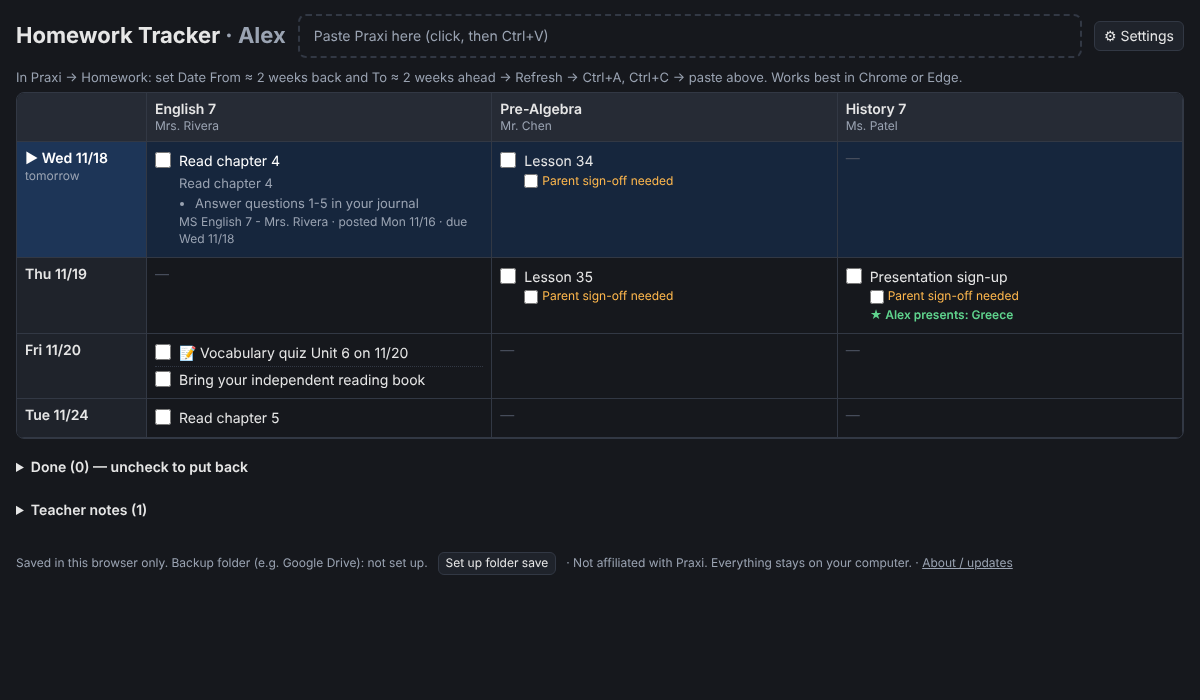
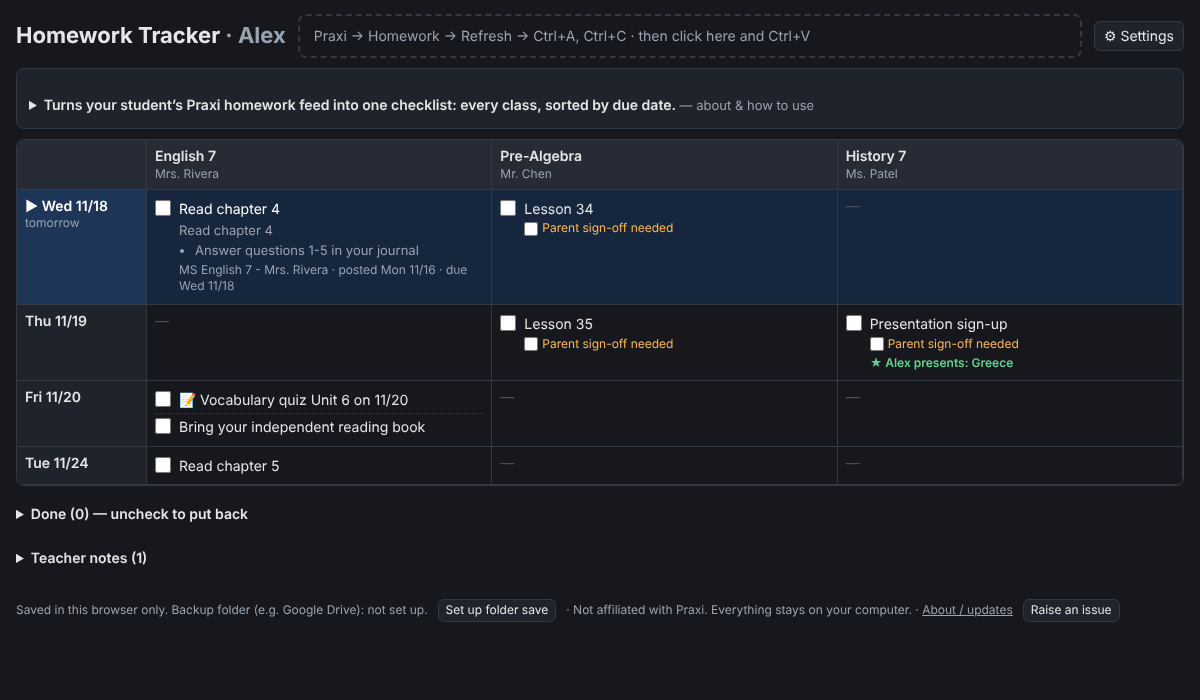
Add intro, paste-box steps, Raise an issue, 8-class layout
- Collapsible about / how-to-use intro (starts collapsed) replaces the
  one-line hint; copy/paste steps now live in the paste box
- "Raise an issue" dialog with reporting guidance; opens a prefilled
  GitHub issue (problem or feature) with browser/OS filled in
- Columns narrow as classes are added (8 fit at 1280px); sticky date
  column when scrolling sideways
- Class headers accept more teacher titles (Sra., Mme, Coach, Prof., ...);
  previously such classes merged into the preceding one
- README and screenshot updated; test for teacher titles

Claude-Session: https://claude.ai/code/session_01DghYg2563FTEQiGXXq2vg7

diff --git a/index.html b/index.html
@@ -17,7 +17,18 @@
   button:hover { border-color:var(--due); }
   #paste { border:2px dashed var(--line); border-radius:8px; padding:10px 14px; color:var(--muted); outline:none; flex:1; min-width:280px; }
   #paste:focus { border-color:var(--due); }
-  .howto { color:var(--muted); font-size:13px; margin:4px 0 0; }
+  .about { margin:2px 0 10px; border:1px solid var(--line); border-radius:8px; background:var(--panel); }
+  .about > summary { cursor:pointer; padding:8px 12px; font-weight:600; color:var(--text); }
+  .about > summary::after { content:' — about & how to use'; font-weight:400; color:var(--muted); font-size:13px; }
+  .about[open] > summary::after { content:''; }
+  .aboutbody { display:grid; grid-template-columns:repeat(auto-fit, minmax(300px, 1fr)); gap:4px 22px; padding:0 14px 12px; color:var(--muted); font-size:13px; line-height:1.5; }
+  .aboutbody section:last-child { grid-column:1 / -1; }   /* "How to use" runs full width under the three short columns */
+  .aboutbody h3 { color:var(--text); font-size:13px; margin:6px 0 4px; text-transform:uppercase; letter-spacing:.04em; }
+  .aboutbody p, .aboutbody ul, .aboutbody ol { margin:0 0 6px; }
+  .aboutbody ul, .aboutbody ol { padding-left:18px; }
+  .aboutbody li { margin:2px 0; }
+  .aboutbody b, .aboutbody em { color:var(--text); }
+  .k { display:inline-block; border:1px solid var(--line); border-bottom-width:2px; border-radius:4px; padding:0 5px; font-size:12px; color:var(--text); background:var(--panel2); white-space:nowrap; }
   .msg { margin:6px 0; color:var(--muted); font-size:13px; }
   .msg.err { color:var(--over); }
   #driveBar { background:#3a2f12; border:1px solid var(--chg); border-radius:8px; padding:8px 12px; margin:8px 0; display:flex; gap:10px; align-items:center; }
@@ -31,7 +42,10 @@
   .cell { border-right:1px solid var(--line); border-bottom:1px solid var(--line); padding:6px 8px; min-width:0; }
   .hdr { position:sticky; top:0; background:var(--panel2); font-weight:600; z-index:1; }
   .hdr small { display:block; font-weight:400; color:var(--muted); font-size:12px; }
-  .rowlbl { background:var(--panel); font-weight:600; }
+  .rowlbl { background:var(--panel); font-weight:600; position:sticky; left:0; z-index:1; }   /* dates stay put when scrolling sideways */
+  .hdr.corner { left:0; z-index:2; }
+  .dense .cell { padding:5px 6px; font-size:13px; }
+  .dense .hdr { font-size:13px; }
   .rowlbl small { display:block; font-weight:400; color:var(--muted); font-size:12px; }
   .r-next > .cell { background:#16263d; }
   .r-next > .rowlbl { background:#1d3557; color:#fff; }
@@ -82,7 +96,10 @@
   .chk { display:flex; gap:8px; align-items:center; margin:5px 0; cursor:pointer; }
   .small { font-size:12px; margin:4px 0; }
   .dlgbtns { display:flex; justify-content:flex-end; gap:8px; margin-top:16px; }
-  #sSave { border-color:var(--due); }
+  #sSave, dialog .primary { border-color:var(--due); }
+  #issue { font-size:13px; line-height:1.5; }
+  #issue p, #issue ol { margin:4px 0 8px; } #issue ol { padding-left:18px; } #issue li { margin:3px 0; }
+  #issue .k2 { color:var(--muted); }
 </style>
 </head>
 <body>
@@ -92,7 +109,43 @@
     <div id="paste" contenteditable="true"></div>
     <button id="settingsBtn" title="Settings">⚙ Settings</button>
   </div>
-  <div class="howto" id="howto"></div>
+  <details class="about" id="about">
+    <summary>Turns your student’s Praxi homework feed into one checklist: every class, sorted by due date.</summary>
+    <div class="aboutbody">
+      <section>
+        <h3>Why it exists</h3>
+        <p>Praxi shows homework as a running feed of daily teacher posts. To find out what’s due tomorrow, you have to scroll through two weeks of posts across every class and work out the dates yourself. And once you’ve checked something, there’s nowhere to mark it done. This page does that sorting for you.</p>
+      </section>
+      <section>
+        <h3>What it does</h3>
+        <ul>
+          <li>Lays out every assignment in a grid: classes across the top, due dates down the side, with the next school day highlighted.</li>
+          <li>Lets you check items off and remembers them. Overdue items rise to the top.</li>
+          <li>Flags anything a teacher edited after you checked it, items whose due date moved, and tests and quizzes (📝).</li>
+          <li>Finds your student’s row in presentation sign-ups and adds a parent-signature checkbox where you need one (⚙ Settings).</li>
+        </ul>
+      </section>
+      <section>
+        <h3>What it doesn’t do</h3>
+        <ul>
+          <li>It doesn’t log in to Praxi or fetch anything by itself. It only knows what you paste in.</li>
+          <li>It doesn’t submit work, see grades, or know whether a teacher received something. A checkmark means <em>you</em> marked it done.</li>
+          <li>It doesn’t send reminders or notifications, and it doesn’t share your data. Everything stays in this browser, plus a backup folder if you choose one.</li>
+          <li>It reads teacher posts the way they’re usually written. An oddly formatted post may land under “No due date” or be missed, so still glance at Praxi now and then.</li>
+        </ul>
+      </section>
+      <section>
+        <h3>How to use it</h3>
+        <ol>
+          <li><b>Copying from Praxi:</b> go to Praxi → <b>Homework</b>, set <b>Date From</b> and <b>To</b>, click <b>Refresh</b>, then press <span class="k">A</span> and <span class="k">C</span> to copy the whole page. Click the paste box above and press <span class="k">V</span>.</li>
+          <li><b>First time, load the semester:</b> set Date From to the first day of the semester and To about 2 weeks ahead. Paste. Everything from earlier weeks will show as overdue, so use <b>Mark Done</b> in the Overdue row (dated today) to clear the history in one click.</li>
+          <li><b>Then weekly (or daily during a busy stretch):</b> set Date From to about 2 weeks back and To about 2 weeks ahead, and paste. The overlap is deliberate: it picks up teacher edits and date changes. Pasting the same days twice is harmless, because the newest version of each list wins.</li>
+          <li><b>Each evening:</b> check off what’s done, look at the highlighted row for the next school day, and watch for 📝 tests and ⚠ changes.</li>
+          <li><b>More than one computer?</b> Use <b>Set up folder save</b> at the bottom and pick a Google Drive, iCloud or OneDrive folder on each computer. Use Chrome or Edge on Mac or Windows.</li>
+        </ol>
+      </section>
+    </div>
+  </details>
   <dialog id="settings">
     <form method="dialog" id="settingsForm">
       <h2>Settings</h2>
@@ -109,11 +162,31 @@
       <div class="dlgbtns"><button value="cancel" id="sCancel" formnovalidate>Cancel</button><button value="ok" id="sSave">Save</button></div>
     </form>
   </dialog>
+  <dialog id="issue">
+    <h2>Raise an issue</h2>
+    <p>Found something wrong, or have an idea? Issues go to the project’s GitHub page. You’ll need a free GitHub account to post.</p>
+    <h3>Reporting a problem</h3>
+    <ol>
+      <li><b>Describe what happened</b> and what you expected instead. For example: “Lesson 36 shows under No due date, but Praxi says due 12/2.”</li>
+      <li><b>Take a screenshot</b> of the tracker, and of the Praxi post if the problem is with how it was read (<span class="k2"></span>).</li>
+      <li><b>Hide names first.</b> Praxi pages and sign-up sheets show students’ full names, yours and other kids’. Crop or cover them before attaching.</li>
+      <li>Your browser and computer type are filled in for you.</li>
+    </ol>
+    <h3>Asking for a feature or change</h3>
+    <p>Say what you’d like it to do and why it would help, for example: “Let me hide a class I don’t need to track.”</p>
+    <p class="muted small">Please don’t paste raw Praxi pages into an issue. Issues are public.</p>
+    <div class="dlgbtns">
+      <button id="iClose">Close</button>
+      <button id="iFeature">Request a feature</button>
+      <button id="iBug" class="primary">Report a problem</button>
+    </div>
+  </dialog>
   <div id="pasteMsg" class="msg"></div>
   <div id="driveBar" hidden><span id="driveMsg"></span><button id="driveBtn"></button></div>
   <div id="out"></div>
   <div class="foot"><span id="driveStatus"></span><button id="driveSetup">Set up folder save</button>
-    <span>· Not affiliated with Praxi. Everything stays on your computer. · <a href="https://github.com/ricobert1/praxi-homework-tracker" target="_blank" rel="noopener">About / updates</a></span></div>
+    <span>· Not affiliated with Praxi. Everything stays on your computer. · <a href="https://github.com/ricobert1/praxi-homework-tracker" target="_blank" rel="noopener">About / updates</a></span>
+    <button id="issueBtn">Raise an issue</button></div>
 </main>
 
 <script>
@@ -135,7 +208,8 @@ const PraxiHW = (() => {
   const DOW = ['sunday','monday','tuesday','wednesday','thursday','friday','saturday'];
   const MON = {jan:1,feb:2,mar:3,apr:4,may:5,jun:6,jul:7,aug:8,sep:9,oct:10,nov:11,dec:12};
   const ASSIGNED_RE = /^Assigned:\s*([A-Za-z]{3})[a-z]*\.?\s+(\d{1,2}),\s*(\d{4})$/;
-  const CLASS_RE = /^.{2,60}\s-\s(?:Mrs|Mr|Ms|Miss|Dr)\.?\s.{2,40}$/;
+  // "Class Name - Title Lastname". Titles cover English, Spanish, French and German forms plus Coach/Prof./clergy.
+  const CLASS_RE = /^.{2,60}\s-\s(?:Mrs|Mr|Ms|Mx|Miss|Dr|Prof|Professor|Coach|Señora|Senora|Señorita|Senorita|Señor|Senor|Sra|Srta|Sr|Madame|Mademoiselle|Monsieur|Mme|Mlle|Frau|Herr|Rev|Fr|Father|Sister|Br|Brother)\.?\s.{2,40}$/;
   const DUE_RE = /^(?:homework\s+)?due(?:\s+date)?\b[\s,:]*(?:(sunday|monday|tuesday|wednesday|thursday|friday|saturday)\b)?[\s,]*(\d{1,2})\/(\d{1,2})\s*:?$/i;
   const INLINE_DUE_RE = /\(\s*due\s+(\d{1,2})\/(\d{1,2})\s*\)/i;
   const NOTE_RE = /no assigned homework|check praxi|^map:\s*(none|no map)/i;
@@ -399,7 +473,7 @@ const OLD = { ls: 'bohw.v1', driveAt: 'bohw.driveAt', idb: 'bohw', file: 'bo-hom
 const STALE_DAYS = 3;
 const IS_MAC = /Mac|iPhone|iPad/i.test(navigator.platform || navigator.userAgent || '');
 const KEY = IS_MAC ? '⌘' : 'Ctrl+';
-const PASTE_HINT = `Paste Praxi here (click, then ${KEY}V)`;
+const PASTE_HINT = `Praxi → Homework → Refresh → ${KEY}A, ${KEY}C  ·  then click here and ${KEY}V`;
 let state = { pastes: [], status: {}, settings: {}, updated: null };
 let model = null;
 const openIds = new Set();
@@ -624,9 +698,12 @@ function render() {
   if (undated.length) rows.push({ kind: 'undated', items: undated });
 
   const wrap = el('div', 'gridwrap'), grid = el('div', 'grid');
-  grid.style.gridTemplateColumns = `130px repeat(${classes.length}, minmax(220px, 1fr))`;
-  grid.style.minWidth = (130 + 220 * classes.length) + 'px';   // narrow window: scroll sideways instead of squashing
-  grid.appendChild(el('div', 'cell hdr', ''));
+  // Columns narrow as classes are added (8 classes fit a 1280px laptop); below the minimum it scrolls sideways.
+  const n = classes.length, lblW = n > 6 ? 108 : 130, colMin = n > 6 ? 138 : n > 4 ? 170 : 220;
+  if (n > 6) grid.classList.add('dense');
+  grid.style.gridTemplateColumns = `${lblW}px repeat(${n}, minmax(${colMin}px, 1fr))`;
+  grid.style.minWidth = (lblW + colMin * n) + 'px';
+  grid.appendChild(el('div', 'cell hdr corner', ''));
   classes.forEach(c => { const h = el('div', 'cell hdr', shortCls(c)); h.appendChild(el('small', null, teacher(c))); grid.appendChild(h); });
 
   for (const r of rows) {
@@ -725,16 +802,34 @@ function saveSettings() {
   PraxiHW.configure(state.settings); rebuild(); save(); render(); updateHeader();
 }
 
+/* --- raise an issue: opens GitHub's new-issue page with a starter template --- */
+const REPO = 'https://github.com/ricobert1/praxi-homework-tracker';
+function openIssue(kind) {
+  const ua = navigator.userAgent;
+  const browser = /Edg\//.test(ua) ? 'Edge' : /Chrome\//.test(ua) ? 'Chrome' : /Firefox\//.test(ua) ? 'Firefox' : /Safari\//.test(ua) ? 'Safari' : 'Other';
+  const env = `Browser: ${browser} · Computer: ${IS_MAC ? 'Mac' : /Windows/.test(ua) ? 'Windows' : 'Other'} · Opened from: ${location.protocol === 'file:' ? 'downloaded file' : 'website'}`;
+  const body = kind === 'bug'
+    ? `**What happened?**\n\n\n**What did you expect instead?**\n\n\n**Screenshots** (cover or crop out student names first)\n\n\n---\n${env}`
+    : `**What would you like it to do?**\n\n\n**Why would it help?**\n\n\n---\n${env}`;
+  const title = kind === 'bug' ? 'Problem: ' : 'Idea: ';
+  window.open(`${REPO}/issues/new?title=${encodeURIComponent(title)}&body=${encodeURIComponent(body)}&labels=${kind === 'bug' ? 'bug' : 'enhancement'}`, '_blank', 'noopener');
+  document.getElementById('issue').close();
+}
+
 async function init() {
   load(); rebuild(); render(); updateHeader();
   const paste = document.getElementById('paste');
   paste.textContent = PASTE_HINT;
-  document.getElementById('howto').textContent =
-    `In Praxi → Homework: set Date From ≈ 2 weeks back and To ≈ 2 weeks ahead → Refresh → ${KEY}A, ${KEY}C → paste above. Works best in Chrome or Edge.`;
+  document.querySelectorAll('.k').forEach(k => { k.textContent = KEY + k.textContent; });   // ⌘A on Mac, Ctrl+A on Windows
   paste.addEventListener('paste', handlePaste);
   paste.addEventListener('focus', e => { e.target.textContent = ''; });
   paste.addEventListener('blur', e => { if (!PraxiHW.norm(e.target.textContent)) e.target.textContent = PASTE_HINT; });
   document.getElementById('settingsBtn').onclick = openSettings;
+  document.querySelector('#issue .k2').textContent = IS_MAC ? 'on a Mac: ⌘⇧4, then drag' : 'on Windows: Win+Shift+S, then drag';
+  document.getElementById('issueBtn').onclick = () => document.getElementById('issue').showModal();
+  document.getElementById('iClose').onclick = () => document.getElementById('issue').close();
+  document.getElementById('iBug').onclick = () => openIssue('bug');
+  document.getElementById('iFeature').onclick = () => openIssue('feature');
   document.getElementById('settingsForm').addEventListener('submit', e => { if (e.submitter && e.submitter.value === 'ok') saveSettings(); });
   document.getElementById('driveSetup').onclick = driveSetup;
   document.getElementById('driveBtn').onclick = driveResume;

diff --git a/test/parser.test.js b/test/parser.test.js
@@ -88,3 +88,15 @@ test('status: a teacher edit after checking shows as changed', () => {
   assert.equal(P.statusOf(it, { [it.id]: { done: true, sig: it.sig } }, '2026-11-17'), 'done');
   assert.equal(P.statusOf(it, { [it.id]: { done: true, sig: 'old' } }, '2026-11-17'), 'changed');
 });
+
+test('recognizes non-English teacher titles in class headers', () => {
+  const P = core();
+  const paste = `<div>Assigned: Nov 16, 2026</div>
+<div>MS Spanish I - Sra. Morales</div><p>Due Tuesday 11/17</p><ul><li>Conjugation worksheet</li></ul>
+<div>MS French I - Mme Dubois</div><p>Due Tuesday 11/17</p><ul><li>Dialogue practice</li></ul>
+<div>MS PE - Coach Reyes</div><p>Due Tuesday 11/17</p><ul><li>Fitness log</li></ul>`;
+  same(P.parsePaste(paste).map(l => [l.cls, l.items.map(i => i.title)]), [
+    ['MS Spanish I - Sra. Morales', ['Conjugation worksheet']],
+    ['MS French I - Mme Dubois', ['Dialogue practice']],
+    ['MS PE - Coach Reyes', ['Fitness log']]]);
+});

diff --git a/README.md b/README.md
@@ -29,6 +29,7 @@ Paste again whenever you like (daily, or a few times a week). Overlapping pastes
 - **Presentation sign-ups**: highlights your student's row and fades the ones that aren't theirs.
 - **Parent signature checkbox**: in ⚙ Settings, pick the classes where every assignment needs a parent signature, plus whether presentations do.
 - **Teacher notes** ("no homework tonight", etc.) are collected in one place.
+- **Up to 8+ classes**: columns narrow to fit, and the date column stays put if you scroll sideways.
 
 ## Where your data lives
 
@@ -44,7 +45,7 @@ Note that the hosted link and a local file keep **separate** saved data, because
 
 ## Known limits
 
-- It's tuned to how teachers at our school format their Praxi posts. The basic layout (an *Assigned* date, a *Class - Teacher* line, and *Due* headings) is Praxi's own, so it should work elsewhere. Unusual formats may land under **No due date** or get missed. If something parses wrong, open an issue with a description, and please replace any student names.
+- It's tuned to how teachers at our school format their Praxi posts. The basic layout (an *Assigned* date, a *Class - Teacher* line, and *Due* headings) is Praxi's own, so it should work elsewhere. Unusual formats may land under **No due date** or get missed. If something parses wrong, use the **Raise an issue** button at the bottom of the page (or [open an issue](https://github.com/ricobert1/praxi-homework-tracker/issues/new)). Cover or crop out student names in any screenshots.
 - Safari and Firefox work for the tracker itself, but not for folder save.
 - One student per browser. For two kids, use two browser profiles, or the hosted link for one and a downloaded copy for the other.
 
